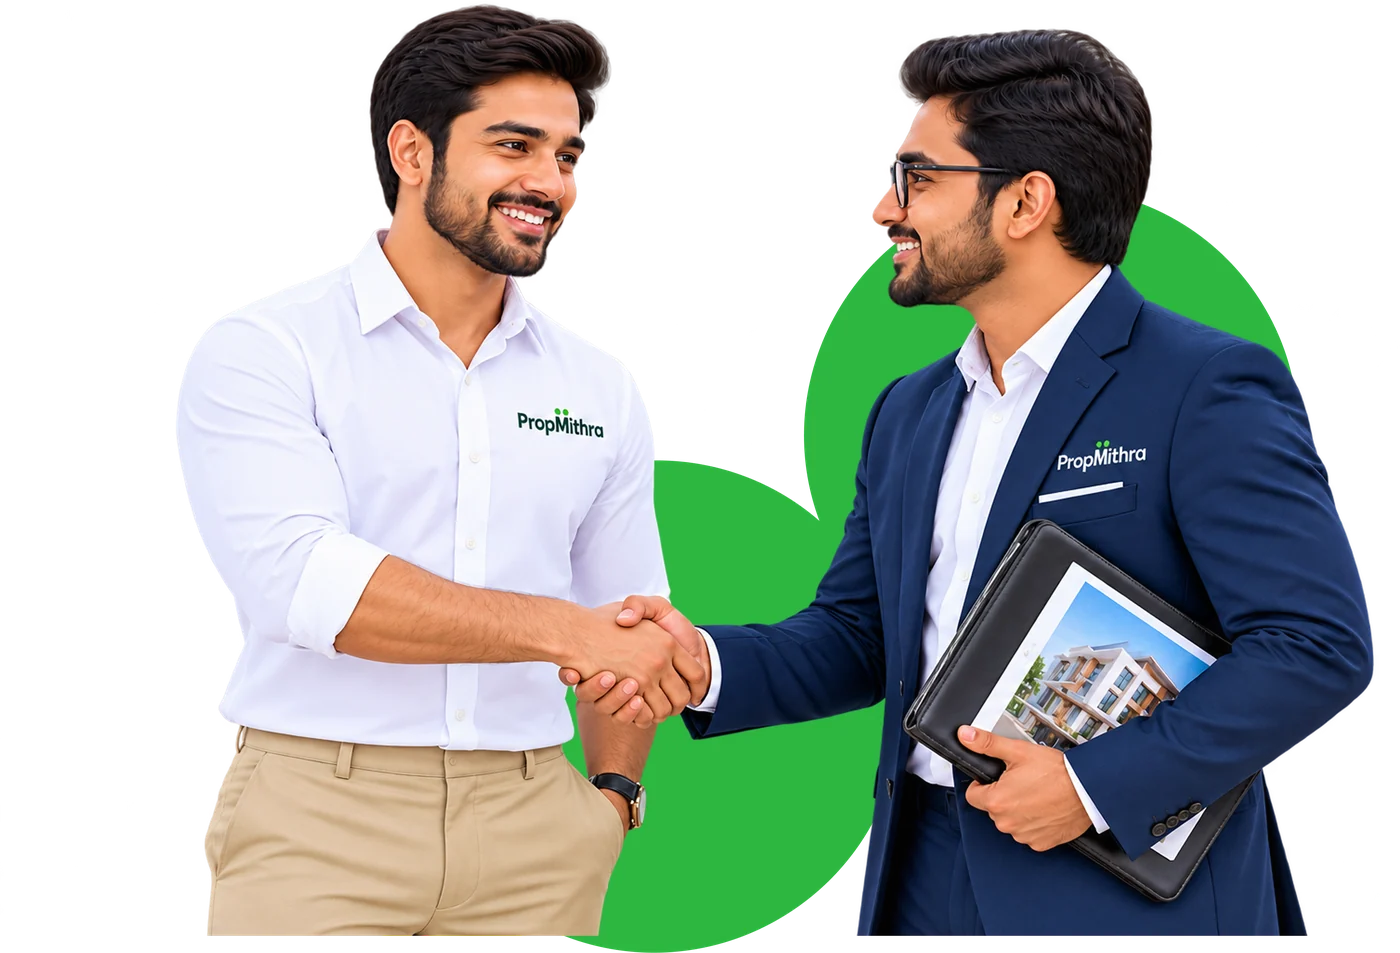
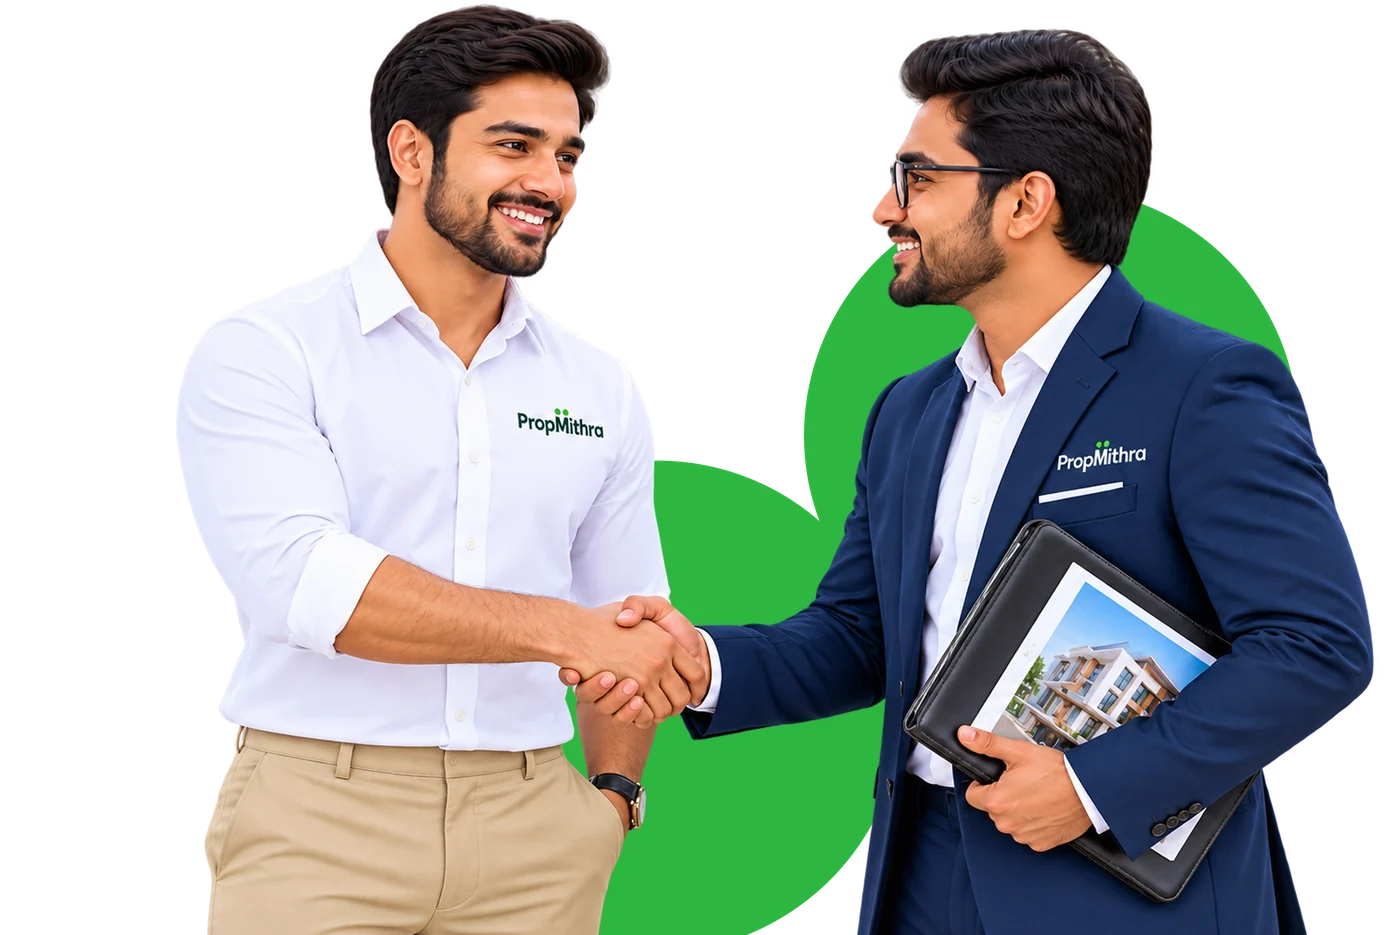
Homepage hero: bigger image, flush with section bottom
Claude-Session: https://claude.ai/code/session_01Wm3mkNhdUJ5DoV1cAS1UVy

diff --git a/index.html b/index.html
@@ -125,16 +125,20 @@ body::before { content: ""; position: fixed; inset: 0 0 auto; height: env(safe-a
 .tag.warn { background: #fdf3e2; color: var(--warn); }
 @media (min-width: 861px) {
   .hero-grid:has(.scene.team) { grid-template-columns: 1fr 1.3fr; gap: clamp(16px, 3vw, 40px); }
-  .scene.team { margin-right: clamp(-48px, -3vw, 0px); }
+  .hero:has(.scene.team) { padding-bottom: 0; }
+  .hero-grid:has(.scene.team) { align-items: stretch; }
+  .hero-grid:has(.scene.team) .hero-copy { align-self: center; padding-bottom: clamp(40px, 6vw, 80px); }
+  .scene.team { align-self: end; margin-right: clamp(-64px, -4vw, 0px); margin-left: clamp(-40px, -3vw, 0px); }
 }
 .scene.team { min-height: 0; }
-.scene .photo.cutout { position: relative; inset: auto; background: none; border-radius: 0; overflow: visible; aspect-ratio: 1400 / 953; }
+.scene .photo.cutout { position: relative; inset: auto; background: none; border-radius: 0; overflow: visible; aspect-ratio: 1400 / 935; }
 .scene .photo.cutout img { object-fit: contain; }
 /* Phones: the moments stack under the photo instead of floating over it. */
 @media (max-width: 620px) {
   .scene { min-height: 0; display: grid; gap: 12px; }
   .scene .photo { position: relative; inset: auto; aspect-ratio: 16 / 10; max-width: 100%; }
   .scene.team { margin-right: 0; }
+  .hero:has(.scene.team) { padding-bottom: 0; }
   .float, .float.match, .float.chat, .float.deal { position: static; width: auto; }
 }
 /* Photos that fail to load show their tint, not their alt text. */
@@ -599,7 +603,7 @@ body::before { content: ""; position: fixed; inset: 0 0 auto; height: env(safe-a
       <div class="hero-note"><span>Free for brokers</span><span>Android app &amp; web</span><span>Owner details stay private</span></div>
     </div>
     <div class="scene team">
-      <div class="photo cutout"><img src="img/hero-team.webp" alt="Two PropMithra brokers shaking hands over a new property deal" width="1400" height="953" loading="eager"></div>
+      <div class="photo cutout"><img src="img/hero-team.webp" alt="Two PropMithra brokers shaking hands over a new property deal" width="1400" height="935" loading="eager"></div>
     </div>
   </div>
 </section>

diff --git a/account.html b/account.html
@@ -125,16 +125,20 @@ body::before { content: ""; position: fixed; inset: 0 0 auto; height: env(safe-a
 .tag.warn { background: #fdf3e2; color: var(--warn); }
 @media (min-width: 861px) {
   .hero-grid:has(.scene.team) { grid-template-columns: 1fr 1.3fr; gap: clamp(16px, 3vw, 40px); }
-  .scene.team { margin-right: clamp(-48px, -3vw, 0px); }
+  .hero:has(.scene.team) { padding-bottom: 0; }
+  .hero-grid:has(.scene.team) { align-items: stretch; }
+  .hero-grid:has(.scene.team) .hero-copy { align-self: center; padding-bottom: clamp(40px, 6vw, 80px); }
+  .scene.team { align-self: end; margin-right: clamp(-64px, -4vw, 0px); margin-left: clamp(-40px, -3vw, 0px); }
 }
 .scene.team { min-height: 0; }
-.scene .photo.cutout { position: relative; inset: auto; background: none; border-radius: 0; overflow: visible; aspect-ratio: 1400 / 953; }
+.scene .photo.cutout { position: relative; inset: auto; background: none; border-radius: 0; overflow: visible; aspect-ratio: 1400 / 935; }
 .scene .photo.cutout img { object-fit: contain; }
 /* Phones: the moments stack under the photo instead of floating over it. */
 @media (max-width: 620px) {
   .scene { min-height: 0; display: grid; gap: 12px; }
   .scene .photo { position: relative; inset: auto; aspect-ratio: 16 / 10; max-width: 100%; }
   .scene.team { margin-right: 0; }
+  .hero:has(.scene.team) { padding-bottom: 0; }
   .float, .float.match, .float.chat, .float.deal { position: static; width: auto; }
 }
 /* Photos that fail to load show their tint, not their alt text. */

diff --git a/blog/co-broking-commission-sharing.html b/blog/co-broking-commission-sharing.html
@@ -125,16 +125,20 @@ body::before { content: ""; position: fixed; inset: 0 0 auto; height: env(safe-a
 .tag.warn { background: #fdf3e2; color: var(--warn); }
 @media (min-width: 861px) {
   .hero-grid:has(.scene.team) { grid-template-columns: 1fr 1.3fr; gap: clamp(16px, 3vw, 40px); }
-  .scene.team { margin-right: clamp(-48px, -3vw, 0px); }
+  .hero:has(.scene.team) { padding-bottom: 0; }
+  .hero-grid:has(.scene.team) { align-items: stretch; }
+  .hero-grid:has(.scene.team) .hero-copy { align-self: center; padding-bottom: clamp(40px, 6vw, 80px); }
+  .scene.team { align-self: end; margin-right: clamp(-64px, -4vw, 0px); margin-left: clamp(-40px, -3vw, 0px); }
 }
 .scene.team { min-height: 0; }
-.scene .photo.cutout { position: relative; inset: auto; background: none; border-radius: 0; overflow: visible; aspect-ratio: 1400 / 953; }
+.scene .photo.cutout { position: relative; inset: auto; background: none; border-radius: 0; overflow: visible; aspect-ratio: 1400 / 935; }
 .scene .photo.cutout img { object-fit: contain; }
 /* Phones: the moments stack under the photo instead of floating over it. */
 @media (max-width: 620px) {
   .scene { min-height: 0; display: grid; gap: 12px; }
   .scene .photo { position: relative; inset: auto; aspect-ratio: 16 / 10; max-width: 100%; }
   .scene.team { margin-right: 0; }
+  .hero:has(.scene.team) { padding-bottom: 0; }
   .float, .float.match, .float.chat, .float.deal { position: static; width: auto; }
 }
 /* Photos that fail to load show their tint, not their alt text. */

diff --git a/blog/index.html b/blog/index.html
@@ -125,16 +125,20 @@ body::before { content: ""; position: fixed; inset: 0 0 auto; height: env(safe-a
 .tag.warn { background: #fdf3e2; color: var(--warn); }
 @media (min-width: 861px) {
   .hero-grid:has(.scene.team) { grid-template-columns: 1fr 1.3fr; gap: clamp(16px, 3vw, 40px); }
-  .scene.team { margin-right: clamp(-48px, -3vw, 0px); }
+  .hero:has(.scene.team) { padding-bottom: 0; }
+  .hero-grid:has(.scene.team) { align-items: stretch; }
+  .hero-grid:has(.scene.team) .hero-copy { align-self: center; padding-bottom: clamp(40px, 6vw, 80px); }
+  .scene.team { align-self: end; margin-right: clamp(-64px, -4vw, 0px); margin-left: clamp(-40px, -3vw, 0px); }
 }
 .scene.team { min-height: 0; }
-.scene .photo.cutout { position: relative; inset: auto; background: none; border-radius: 0; overflow: visible; aspect-ratio: 1400 / 953; }
+.scene .photo.cutout { position: relative; inset: auto; background: none; border-radius: 0; overflow: visible; aspect-ratio: 1400 / 935; }
 .scene .photo.cutout img { object-fit: contain; }
 /* Phones: the moments stack under the photo instead of floating over it. */
 @media (max-width: 620px) {
   .scene { min-height: 0; display: grid; gap: 12px; }
   .scene .photo { position: relative; inset: auto; aspect-ratio: 16 / 10; max-width: 100%; }
   .scene.team { margin-right: 0; }
+  .hero:has(.scene.team) { padding-bottom: 0; }
   .float, .float.match, .float.chat, .float.deal { position: static; width: auto; }
 }
 /* Photos that fail to load show their tint, not their alt text. */

diff --git a/blog/rera-registration-for-agents.html b/blog/rera-registration-for-agents.html
@@ -125,16 +125,20 @@ body::before { content: ""; position: fixed; inset: 0 0 auto; height: env(safe-a
 .tag.warn { background: #fdf3e2; color: var(--warn); }
 @media (min-width: 861px) {
   .hero-grid:has(.scene.team) { grid-template-columns: 1fr 1.3fr; gap: clamp(16px, 3vw, 40px); }
-  .scene.team { margin-right: clamp(-48px, -3vw, 0px); }
+  .hero:has(.scene.team) { padding-bottom: 0; }
+  .hero-grid:has(.scene.team) { align-items: stretch; }
+  .hero-grid:has(.scene.team) .hero-copy { align-self: center; padding-bottom: clamp(40px, 6vw, 80px); }
+  .scene.team { align-self: end; margin-right: clamp(-64px, -4vw, 0px); margin-left: clamp(-40px, -3vw, 0px); }
 }
 .scene.team { min-height: 0; }
-.scene .photo.cutout { position: relative; inset: auto; background: none; border-radius: 0; overflow: visible; aspect-ratio: 1400 / 953; }
+.scene .photo.cutout { position: relative; inset: auto; background: none; border-radius: 0; overflow: visible; aspect-ratio: 1400 / 935; }
 .scene .photo.cutout img { object-fit: contain; }
 /* Phones: the moments stack under the photo instead of floating over it. */
 @media (max-width: 620px) {
   .scene { min-height: 0; display: grid; gap: 12px; }
   .scene .photo { position: relative; inset: auto; aspect-ratio: 16 / 10; max-width: 100%; }
   .scene.team { margin-right: 0; }
+  .hero:has(.scene.team) { padding-bottom: 0; }
   .float, .float.match, .float.chat, .float.deal { position: static; width: auto; }
 }
 /* Photos that fail to load show their tint, not their alt text. */

diff --git a/blog/sharing-listings-safely.html b/blog/sharing-listings-safely.html
@@ -125,16 +125,20 @@ body::before { content: ""; position: fixed; inset: 0 0 auto; height: env(safe-a
 .tag.warn { background: #fdf3e2; color: var(--warn); }
 @media (min-width: 861px) {
   .hero-grid:has(.scene.team) { grid-template-columns: 1fr 1.3fr; gap: clamp(16px, 3vw, 40px); }
-  .scene.team { margin-right: clamp(-48px, -3vw, 0px); }
+  .hero:has(.scene.team) { padding-bottom: 0; }
+  .hero-grid:has(.scene.team) { align-items: stretch; }
+  .hero-grid:has(.scene.team) .hero-copy { align-self: center; padding-bottom: clamp(40px, 6vw, 80px); }
+  .scene.team { align-self: end; margin-right: clamp(-64px, -4vw, 0px); margin-left: clamp(-40px, -3vw, 0px); }
 }
 .scene.team { min-height: 0; }
-.scene .photo.cutout { position: relative; inset: auto; background: none; border-radius: 0; overflow: visible; aspect-ratio: 1400 / 953; }
+.scene .photo.cutout { position: relative; inset: auto; background: none; border-radius: 0; overflow: visible; aspect-ratio: 1400 / 935; }
 .scene .photo.cutout img { object-fit: contain; }
 /* Phones: the moments stack under the photo instead of floating over it. */
 @media (max-width: 620px) {
   .scene { min-height: 0; display: grid; gap: 12px; }
   .scene .photo { position: relative; inset: auto; aspect-ratio: 16 / 10; max-width: 100%; }
   .scene.team { margin-right: 0; }
+  .hero:has(.scene.team) { padding-bottom: 0; }
   .float, .float.match, .float.chat, .float.deal { position: static; width: auto; }
 }
 /* Photos that fail to load show their tint, not their alt text. */

diff --git a/brokers.html b/brokers.html
@@ -125,16 +125,20 @@ body::before { content: ""; position: fixed; inset: 0 0 auto; height: env(safe-a
 .tag.warn { background: #fdf3e2; color: var(--warn); }
 @media (min-width: 861px) {
   .hero-grid:has(.scene.team) { grid-template-columns: 1fr 1.3fr; gap: clamp(16px, 3vw, 40px); }
-  .scene.team { margin-right: clamp(-48px, -3vw, 0px); }
+  .hero:has(.scene.team) { padding-bottom: 0; }
+  .hero-grid:has(.scene.team) { align-items: stretch; }
+  .hero-grid:has(.scene.team) .hero-copy { align-self: center; padding-bottom: clamp(40px, 6vw, 80px); }
+  .scene.team { align-self: end; margin-right: clamp(-64px, -4vw, 0px); margin-left: clamp(-40px, -3vw, 0px); }
 }
 .scene.team { min-height: 0; }
-.scene .photo.cutout { position: relative; inset: auto; background: none; border-radius: 0; overflow: visible; aspect-ratio: 1400 / 953; }
+.scene .photo.cutout { position: relative; inset: auto; background: none; border-radius: 0; overflow: visible; aspect-ratio: 1400 / 935; }
 .scene .photo.cutout img { object-fit: contain; }
 /* Phones: the moments stack under the photo instead of floating over it. */
 @media (max-width: 620px) {
   .scene { min-height: 0; display: grid; gap: 12px; }
   .scene .photo { position: relative; inset: auto; aspect-ratio: 16 / 10; max-width: 100%; }
   .scene.team { margin-right: 0; }
+  .hero:has(.scene.team) { padding-bottom: 0; }
   .float, .float.match, .float.chat, .float.deal { position: static; width: auto; }
 }
 /* Photos that fail to load show their tint, not their alt text. */

diff --git a/clients.html b/clients.html
@@ -125,16 +125,20 @@ body::before { content: ""; position: fixed; inset: 0 0 auto; height: env(safe-a
 .tag.warn { background: #fdf3e2; color: var(--warn); }
 @media (min-width: 861px) {
   .hero-grid:has(.scene.team) { grid-template-columns: 1fr 1.3fr; gap: clamp(16px, 3vw, 40px); }
-  .scene.team { margin-right: clamp(-48px, -3vw, 0px); }
+  .hero:has(.scene.team) { padding-bottom: 0; }
+  .hero-grid:has(.scene.team) { align-items: stretch; }
+  .hero-grid:has(.scene.team) .hero-copy { align-self: center; padding-bottom: clamp(40px, 6vw, 80px); }
+  .scene.team { align-self: end; margin-right: clamp(-64px, -4vw, 0px); margin-left: clamp(-40px, -3vw, 0px); }
 }
 .scene.team { min-height: 0; }
-.scene .photo.cutout { position: relative; inset: auto; background: none; border-radius: 0; overflow: visible; aspect-ratio: 1400 / 953; }
+.scene .photo.cutout { position: relative; inset: auto; background: none; border-radius: 0; overflow: visible; aspect-ratio: 1400 / 935; }
 .scene .photo.cutout img { object-fit: contain; }
 /* Phones: the moments stack under the photo instead of floating over it. */
 @media (max-width: 620px) {
   .scene { min-height: 0; display: grid; gap: 12px; }
   .scene .photo { position: relative; inset: auto; aspect-ratio: 16 / 10; max-width: 100%; }
   .scene.team { margin-right: 0; }
+  .hero:has(.scene.team) { padding-bottom: 0; }
   .float, .float.match, .float.chat, .float.deal { position: static; width: auto; }
 }
 /* Photos that fail to load show their tint, not their alt text. */

diff --git a/contact.html b/contact.html
@@ -125,16 +125,20 @@ body::before { content: ""; position: fixed; inset: 0 0 auto; height: env(safe-a
 .tag.warn { background: #fdf3e2; color: var(--warn); }
 @media (min-width: 861px) {
   .hero-grid:has(.scene.team) { grid-template-columns: 1fr 1.3fr; gap: clamp(16px, 3vw, 40px); }
-  .scene.team { margin-right: clamp(-48px, -3vw, 0px); }
+  .hero:has(.scene.team) { padding-bottom: 0; }
+  .hero-grid:has(.scene.team) { align-items: stretch; }
+  .hero-grid:has(.scene.team) .hero-copy { align-self: center; padding-bottom: clamp(40px, 6vw, 80px); }
+  .scene.team { align-self: end; margin-right: clamp(-64px, -4vw, 0px); margin-left: clamp(-40px, -3vw, 0px); }
 }
 .scene.team { min-height: 0; }
-.scene .photo.cutout { position: relative; inset: auto; background: none; border-radius: 0; overflow: visible; aspect-ratio: 1400 / 953; }
+.scene .photo.cutout { position: relative; inset: auto; background: none; border-radius: 0; overflow: visible; aspect-ratio: 1400 / 935; }
 .scene .photo.cutout img { object-fit: contain; }
 /* Phones: the moments stack under the photo instead of floating over it. */
 @media (max-width: 620px) {
   .scene { min-height: 0; display: grid; gap: 12px; }
   .scene .photo { position: relative; inset: auto; aspect-ratio: 16 / 10; max-width: 100%; }
   .scene.team { margin-right: 0; }
+  .hero:has(.scene.team) { padding-bottom: 0; }
   .float, .float.match, .float.chat, .float.deal { position: static; width: auto; }
 }
 /* Photos that fail to load show their tint, not their alt text. */

diff --git a/developers.html b/developers.html
@@ -125,16 +125,20 @@ body::before { content: ""; position: fixed; inset: 0 0 auto; height: env(safe-a
 .tag.warn { background: #fdf3e2; color: var(--warn); }
 @media (min-width: 861px) {
   .hero-grid:has(.scene.team) { grid-template-columns: 1fr 1.3fr; gap: clamp(16px, 3vw, 40px); }
-  .scene.team { margin-right: clamp(-48px, -3vw, 0px); }
+  .hero:has(.scene.team) { padding-bottom: 0; }
+  .hero-grid:has(.scene.team) { align-items: stretch; }
+  .hero-grid:has(.scene.team) .hero-copy { align-self: center; padding-bottom: clamp(40px, 6vw, 80px); }
+  .scene.team { align-self: end; margin-right: clamp(-64px, -4vw, 0px); margin-left: clamp(-40px, -3vw, 0px); }
 }
 .scene.team { min-height: 0; }
-.scene .photo.cutout { position: relative; inset: auto; background: none; border-radius: 0; overflow: visible; aspect-ratio: 1400 / 953; }
+.scene .photo.cutout { position: relative; inset: auto; background: none; border-radius: 0; overflow: visible; aspect-ratio: 1400 / 935; }
 .scene .photo.cutout img { object-fit: contain; }
 /* Phones: the moments stack under the photo instead of floating over it. */
 @media (max-width: 620px) {
   .scene { min-height: 0; display: grid; gap: 12px; }
   .scene .photo { position: relative; inset: auto; aspect-ratio: 16 / 10; max-width: 100%; }
   .scene.team { margin-right: 0; }
+  .hero:has(.scene.team) { padding-bottom: 0; }
   .float, .float.match, .float.chat, .float.deal { position: static; width: auto; }
 }
 /* Photos that fail to load show their tint, not their alt text. */

diff --git a/join.html b/join.html
@@ -125,16 +125,20 @@ body::before { content: ""; position: fixed; inset: 0 0 auto; height: env(safe-a
 .tag.warn { background: #fdf3e2; color: var(--warn); }
 @media (min-width: 861px) {
   .hero-grid:has(.scene.team) { grid-template-columns: 1fr 1.3fr; gap: clamp(16px, 3vw, 40px); }
-  .scene.team { margin-right: clamp(-48px, -3vw, 0px); }
+  .hero:has(.scene.team) { padding-bottom: 0; }
+  .hero-grid:has(.scene.team) { align-items: stretch; }
+  .hero-grid:has(.scene.team) .hero-copy { align-self: center; padding-bottom: clamp(40px, 6vw, 80px); }
+  .scene.team { align-self: end; margin-right: clamp(-64px, -4vw, 0px); margin-left: clamp(-40px, -3vw, 0px); }
 }
 .scene.team { min-height: 0; }
-.scene .photo.cutout { position: relative; inset: auto; background: none; border-radius: 0; overflow: visible; aspect-ratio: 1400 / 953; }
+.scene .photo.cutout { position: relative; inset: auto; background: none; border-radius: 0; overflow: visible; aspect-ratio: 1400 / 935; }
 .scene .photo.cutout img { object-fit: contain; }
 /* Phones: the moments stack under the photo instead of floating over it. */
 @media (max-width: 620px) {
   .scene { min-height: 0; display: grid; gap: 12px; }
   .scene .photo { position: relative; inset: auto; aspect-ratio: 16 / 10; max-width: 100%; }
   .scene.team { margin-right: 0; }
+  .hero:has(.scene.team) { padding-bottom: 0; }
   .float, .float.match, .float.chat, .float.deal { position: static; width: auto; }
 }
 /* Photos that fail to load show their tint, not their alt text. */

diff --git a/privacy.html b/privacy.html
@@ -125,16 +125,20 @@ body::before { content: ""; position: fixed; inset: 0 0 auto; height: env(safe-a
 .tag.warn { background: #fdf3e2; color: var(--warn); }
 @media (min-width: 861px) {
   .hero-grid:has(.scene.team) { grid-template-columns: 1fr 1.3fr; gap: clamp(16px, 3vw, 40px); }
-  .scene.team { margin-right: clamp(-48px, -3vw, 0px); }
+  .hero:has(.scene.team) { padding-bottom: 0; }
+  .hero-grid:has(.scene.team) { align-items: stretch; }
+  .hero-grid:has(.scene.team) .hero-copy { align-self: center; padding-bottom: clamp(40px, 6vw, 80px); }
+  .scene.team { align-self: end; margin-right: clamp(-64px, -4vw, 0px); margin-left: clamp(-40px, -3vw, 0px); }
 }
 .scene.team { min-height: 0; }
-.scene .photo.cutout { position: relative; inset: auto; background: none; border-radius: 0; overflow: visible; aspect-ratio: 1400 / 953; }
+.scene .photo.cutout { position: relative; inset: auto; background: none; border-radius: 0; overflow: visible; aspect-ratio: 1400 / 935; }
 .scene .photo.cutout img { object-fit: contain; }
 /* Phones: the moments stack under the photo instead of floating over it. */
 @media (max-width: 620px) {
   .scene { min-height: 0; display: grid; gap: 12px; }
   .scene .photo { position: relative; inset: auto; aspect-ratio: 16 / 10; max-width: 100%; }
   .scene.team { margin-right: 0; }
+  .hero:has(.scene.team) { padding-bottom: 0; }
   .float, .float.match, .float.chat, .float.deal { position: static; width: auto; }
 }
 /* Photos that fail to load show their tint, not their alt text. */
